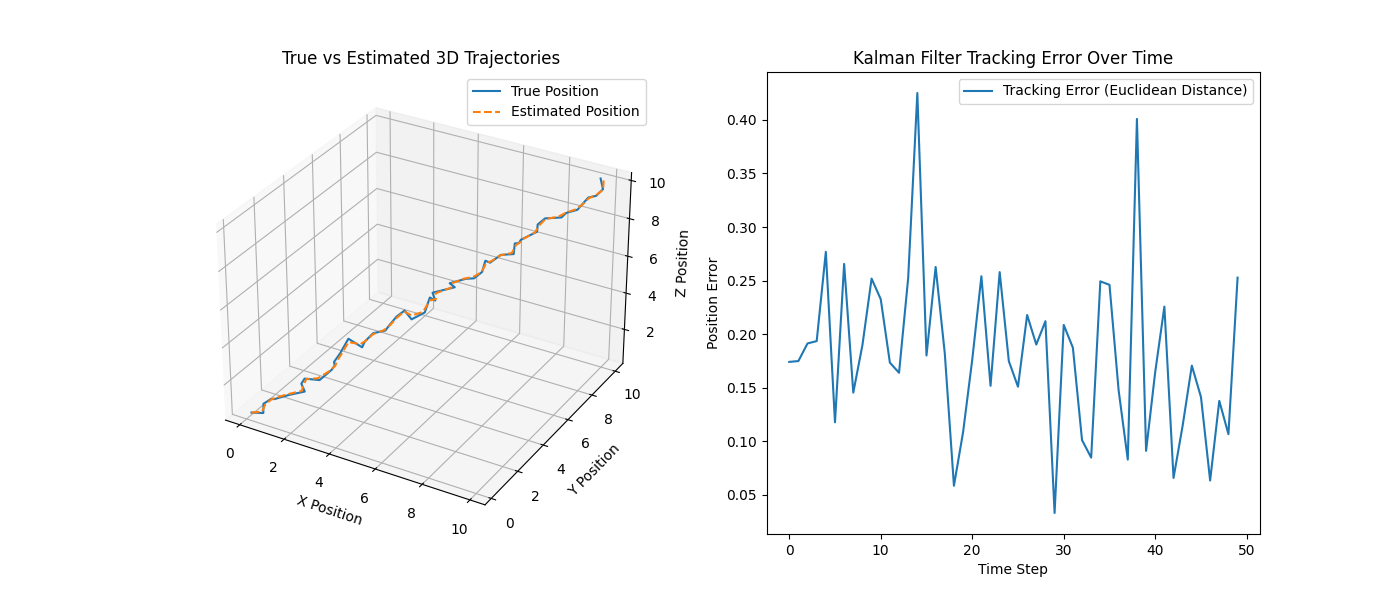
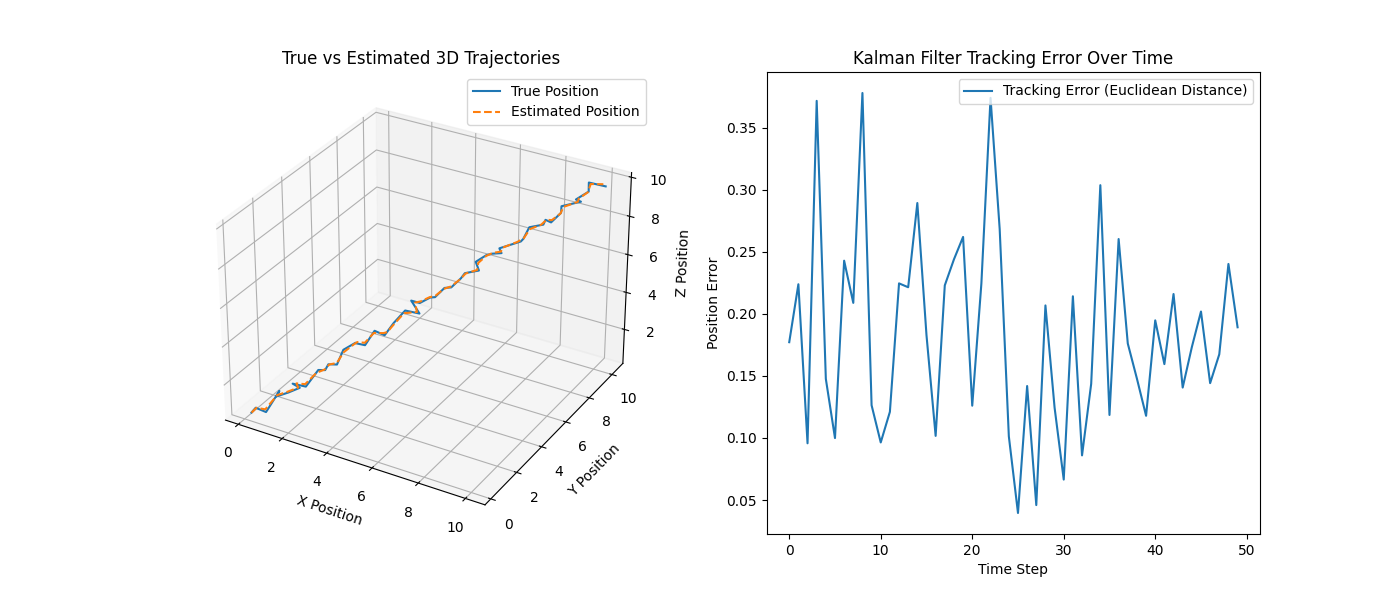
complete

diff --git a/main.py b/main.py
@@ -67,7 +67,7 @@ def experiment2(delta_t, time_steps, initial_position, initial_velocity, H, init
     """
     measurement_noise_cov = np.diag([0.1, 0.1, 0.1, 0.05, 0.05, 0.05]) * measurement_noise_multiplier
     process_noise_cov = np.diag([0.05, 0.05, 0.05, 0.02, 0.02, 0.02]) * process_noise_multiplier
-    variable_acceleration = lambda t: np.array([0.1 * np.sin(t), 0.1 * np.cos(t), -0.02 * t] * acceleration_multiplier)
+    variable_acceleration = lambda t: np.array([0.1 * np.sin(t), 0.1 * np.cos(t), -0.02 * t]) * acceleration_multiplier
     T = 0.02
 
     kalman_filter = MissileTrackerKalmanFilter(delta_t, H, process_noise_cov, measurement_noise_cov, initial_state, initial_covariance)
@@ -140,43 +140,136 @@ def normal_run():
 
     # Experiment configurations
     delta_t_values = [0.001, 0.005, 0.01]  # Different time intervals
-    noise_multipliers = [(1, 1), (0.5, 0.5), (2, 2)]  # Different levels of process and measurement noise
+    noise_multipliers = [(0.5, 0.5),(1, 1), (2, 2)]  # Different levels of process and measurement noise
     acceleration_types = [
         ("Constant", np.array([0.1, 0.1, -0.01])),
-        ("Time-dependent", lambda t: np.array([0.1 * np.sin(t), 0.1 * np.cos(t), -0.02 * t]))
+        ("Time-dependent", lambda t: np.array([0.1 * np.sin(t), 0.1 * np.cos(t), -0.01 * t]))
     ]
+    # for delta_t in delta_t_values:
+    #     for (proc_noise_mult, meas_noise_mult) in noise_multipliers:
+    #         for acc_type, acceleration in acceleration_types:
+    #             # Create Kalman filter with adjusted noise
+    #             process_noise_cov = np.diag([0.02, 0.02, 0.02, 0.01, 0.01, 0.01]) * proc_noise_mult
+    #             measurement_noise_cov = np.diag([0.05, 0.05, 0.05, 0.02, 0.02, 0.02]) * meas_noise_mult
 
+    #             # Instantiate Kalman filter
+    #             kalman_filter = MissileTrackerKalmanFilter(
+    #                 delta_t, H, process_noise_cov, measurement_noise_cov, initial_state, initial_covariance
+    #             )
+
+    #             # Run simulation based on acceleration type
+    #             if acc_type == "Constant":
+    #                 true_positions, estimated_positions, errors = Util.simulate_trajectory(
+    #                     time_steps, delta_t, int(0.01 / delta_t), initial_position, initial_velocity, acceleration, kalman_filter
+    #                 )
+    #             elif acc_type == "Time-dependent":
+    #                 true_positions, estimated_positions, errors = Util.simulate_trajectory(
+    #                     time_steps, delta_t, int(0.02 / delta_t), initial_position, initial_velocity, acceleration, kalman_filter
+    #                 )
+
+    #             # Plot and display results
+    #             title = f"Experiment: Δt={delta_t}, Proc Noise Mult={proc_noise_mult}, Meas Noise Mult={meas_noise_mult}, Accel={acc_type}"
+    #             print(title)
+    #             fig = Util.plot_trajectory(true_positions, estimated_positions, errors, normal_run=False)
+    #             # save fig
+    #             save_name = re.sub(r'[<>:"/\\|?*]', "", title)
+    #             save_name = save_name.replace(" ", "_").replace("Δ", "delta").replace("=", "_").replace(",", "_").replace(".", "_") + ".png"
+    #             os.makedirs("results", exist_ok=True)
+    #             fig.savefig(os.path.join("results", save_name))
+
+    # create plots when only delta_t is varied
+    errors=[]
+    delta_t_values = [0.001, 0.005, 0.01, 0.05, 0.1]
     for delta_t in delta_t_values:
-        for (proc_noise_mult, meas_noise_mult) in noise_multipliers:
-            for acc_type, acceleration in acceleration_types:
-                # Create Kalman filter with adjusted noise
-                process_noise_cov = np.diag([0.02, 0.02, 0.02, 0.01, 0.01, 0.01]) * proc_noise_mult
-                measurement_noise_cov = np.diag([0.05, 0.05, 0.05, 0.02, 0.02, 0.02]) * meas_noise_mult
+        kalman_filter = MissileTrackerKalmanFilter(
+            delta_t, H, np.diag([0.02, 0.02, 0.02, 0.01, 0.01, 0.01]), np.diag([0.05, 0.05, 0.05, 0.02, 0.02, 0.02]),
+            initial_state, initial_covariance
+        )
+        true_positions, estimated_positions, error = Util.simulate_trajectory(
+            time_steps, delta_t, int(0.2 / delta_t), initial_position, initial_velocity, np.array([0.1, 0.1, -0.01]), kalman_filter
+        )
+        rmse_error = np.sqrt(np.mean(np.square(error)))
+        # scale by total true position cnt
+        rmse_error_scaled = rmse_error/len(true_positions)
+        errors.append(rmse_error_scaled)
 
-                # Instantiate Kalman filter
-                kalman_filter = MissileTrackerKalmanFilter(
-                    delta_t, H, process_noise_cov, measurement_noise_cov, initial_state, initial_covariance
-                )
+    fig, ax = plt.subplots(2, 2, figsize=(10, 12))
 
-                # Run simulation based on acceleration type
-                if acc_type == "Constant":
-                    true_positions, estimated_positions, errors = Util.simulate_trajectory(
-                        time_steps, delta_t, int(0.01 / delta_t), initial_position, initial_velocity, acceleration, kalman_filter
-                    )
-                elif acc_type == "Time-dependent":
-                    true_positions, estimated_positions, errors = Util.simulate_trajectory(
-                        time_steps, delta_t, int(0.02 / delta_t), initial_position, initial_velocity, acceleration, kalman_filter
-                    )
+    # Create line plot of errors and delta_t
+    ax[0][0].plot(delta_t_values, errors)
+    ax[0][0].set_title("Errors vs Delta_t")
+    ax[0][0].set_xlabel("Delta_t")
+    ax[0][0].set_ylabel("RMSE Error")
+    ax[0][0].legend(["RMSE Error"])
 
-                # Plot and display results
-                title = f"Experiment: Δt={delta_t}, Proc Noise Mult={proc_noise_mult}, Meas Noise Mult={meas_noise_mult}, Accel={acc_type}"
-                print(title)
-                fig = Util.plot_trajectory(true_positions, estimated_positions, errors, normal_run=False)
-                # save fig
-                save_name = re.sub(r'[<>:"/\\|?*]', "", title)
-                save_name = save_name.replace(" ", "_").replace("Δ", "delta").replace("=", "_").replace(",", "_").replace(".", "_") + ".png"
-                os.makedirs("results", exist_ok=True)
-                fig.savefig(os.path.join("results", save_name))
+    noise_multipliers = [0.5, 1, 2, 5, 10]
+    errors = []
+    for noise_mult in noise_multipliers:
+        kalman_filter = MissileTrackerKalmanFilter(
+            0.001, H, np.diag([0.02, 0.02, 0.02, 0.01, 0.01, 0.01]) * noise_mult,
+            np.diag([0.05, 0.05, 0.05, 0.02, 0.02, 0.02]) * noise_mult,
+            initial_state, initial_covariance
+        )
+        true_positions, estimated_positions, error = Util.simulate_trajectory(
+            time_steps, 0.001, int(0.2 / 0.001), initial_position, initial_velocity, np.array([0.1, 0.1, -0.01]), kalman_filter
+        )
+        rmse_error = np.sqrt(np.mean(np.square(error)))
+        errors.append(rmse_error)
+
+    # Create line plot of errors and noise multiplier
+    ax[0][1].plot(noise_multipliers, errors)
+    ax[0][1].set_title("Errors vs Noise Multiplier")
+    ax[0][1].set_xlabel("Noise Multiplier")
+    ax[0][1].set_ylabel("RMSE Error")
+    ax[0][1].legend(["RMSE Error"])
+
+    acceleration_multipliers_constant = [0.5, 1, 2, 5, 10]
+    errors = []
+    for acc_mult in acceleration_multipliers_constant:
+        kalman_filter = MissileTrackerKalmanFilter(
+            0.001, H, np.diag([0.02, 0.02, 0.02, 0.01, 0.01, 0.01]),
+            np.diag([0.05, 0.05, 0.05, 0.02, 0.02, 0.02]),
+            initial_state, initial_covariance
+        )
+        true_positions, estimated_positions, error = Util.simulate_trajectory(
+            time_steps, 0.001, int(0.2 / 0.001), initial_position, initial_velocity, np.array([0.1, 0.1, -0.01]) * acc_mult, kalman_filter
+        )
+        rmse_error = np.sqrt(np.mean(np.square(error)))
+        errors.append(rmse_error)
+
+    # Create line plot of errors and acceleration multiplier (constant)
+    ax[1][0].plot(acceleration_multipliers_constant, errors)
+    ax[1][0].set_title("Errors vs Constant Acceleration")
+    ax[1][0].set_xlabel("Acceleration Multiplier")
+    ax[1][0].set_ylabel("RMSE Error")
+    ax[1][0].legend(["RMSE Error"])
+
+    acceleration_multipliers_time_dependent = [0.5, 1, 2, 5, 10]
+    errors = []
+    for acc_mult in acceleration_multipliers_time_dependent:
+        kalman_filter = MissileTrackerKalmanFilter(
+            0.001, H, np.diag([0.02, 0.02, 0.02, 0.01, 0.01, 0.01]),
+            np.diag([0.05, 0.05, 0.05, 0.02, 0.02, 0.02]),
+            initial_state, initial_covariance
+        )
+        true_positions, estimated_positions, error = Util.simulate_trajectory(
+            time_steps, 0.001, int(0.2 / 0.001), initial_position, initial_velocity,
+            lambda t: np.array([0.1 * np.sin(t), 0.1 * np.cos(t), -0.01 * t]) * acc_mult, kalman_filter
+        )
+        rmse_error = np.sqrt(np.mean(np.square(error)))
+        errors.append(rmse_error)
+
+    # Create line plot of errors and acceleration multiplier (time-dependent)
+    ax[1][1].plot(acceleration_multipliers_time_dependent, errors)
+    ax[1][1].set_title("Errors vs Time-dependent Acceleration")
+    ax[1][1].set_xlabel("Acceleration Multiplier")
+    ax[1][1].set_ylabel("RMSE Error")
+    ax[1][1].legend(["RMSE Error"])
+
+    plt.tight_layout()
+    plt.show()
+    
+
 
 if __name__ == '__main__':
     # streamlit()

diff --git a/utilsKalman/util.py b/utilsKalman/util.py
@@ -100,6 +100,7 @@ class Util:
         # Error plot
         ax1 = fig.add_subplot(1, 2, 2)
         ax1.plot(errors, label="Tracking Error (Euclidean Distance)")
+        ax1.legend(loc='upper left')
         ax1.set_xlabel("Time Step")
         ax1.set_ylabel("Position Error")
         ax1.set_title("Kalman Filter Tracking Error Over Time")

diff --git a/README.md b/README.md
@@ -1,0 +1,76 @@
+---
+title: Kalman Filter
+subtitle: Autonomous Systems
+author: Prakhar Gupta(B21AI027), Adarsh Raj Shrivastava(B21AI003)
+mainfont: DejaVuSerif
+sansfont: DejaVuSans
+monofont: DejaVuSansMono
+mathfont: TeXGyreDejaVuMath-Regular
+---
+
+## Kalman Filter Implementation
+
+The Kalman filter is a recursive algorithm used for estimating the state of a dynamic system from a series of measurements. In the context of missile tracking, the Kalman filter is used to estimate the position and velocity of the target aircraft based on noisy measurements from a radar system.
+
+The state of the target aircraft is represented by a 6-dimensional vector `x = [x, y, z, vx, vy, vz]`, where `(x, y, z)` is the position and `(vx, vy, vz)` is the velocity. The system dynamics are modeled by the following linear state-space equations:
+
+$$v_{t+1} - v_t = a_t * Δt$$
+$$x_{t+1} - x_t = v_t * Δt$$
+
+where `a_t` is the acceleration of the target aircraft, which is assumed to be known and provided as a control input.
+
+The Kalman filter consists of two main steps: the prediction step and the update step.
+
+### Prediction Step
+
+In the prediction step, the Kalman filter uses the known system dynamics and the previous state estimate to predict the current state of the system. The state transition matrix `A` and the control input matrix `B` are used to compute the predicted state:
+
+$$x_predicted = A * x_estimated + B * control_input$$
+$$P_predicted = A * P * A.T + Q$$
+
+where `x_estimated` is the previous state estimate, `P` is the previous state covariance matrix, and `Q` is the process noise covariance matrix.
+
+### Update Step
+
+In the update step, the Kalman filter incorporates the new measurement from the radar system to update the state estimate. The measurement model is represented by the measurement matrix `H`, which maps the state vector to the measurement vector. The Kalman gain `K` is computed based on the measurement covariance `R` and the predicted state covariance `P_predicted`:
+
+```txt
+y = measurement - H * x_predicted  # Measurement residual
+S = H * P_predicted * H.T + R      # Residual covariance
+K = P_predicted * H.T * np.linalg.inv(S)  # Kalman gain
+x_estimated = x_predicted + K * y  # Updated state estimate
+P = (np.eye(P.shape[0]) - K * H) * P_predicted  # Updated covariance
+```
+
+The updated state estimate `x_estimated` and covariance `P` are then used in the next prediction step.
+
+## Simulate Function
+
+The `simulate_trajectory` function is used to simulate the trajectory of the target aircraft and evaluate the performance of the Kalman filter.
+
+The function takes the following inputs:
+
+- `time_steps`: The number of time steps to simulate.
+- `delta_t`: The time interval between each step.
+- `eta`: The number of prediction steps per measurement.
+- `initial_position`: The initial position of the target aircraft.
+- `initial_velocity`: The initial velocity of the target aircraft.
+- `acceleration`: The acceleration of the target aircraft, which can be a constant value or a time-dependent function.
+- `kalman_filter`: An instance of the `MissileTrackerKalmanFilter` class.
+
+The function simulates the true trajectory of the target aircraft based on the given initial conditions and acceleration. At each step, the Kalman filter performs `eta` prediction steps and then updates the state estimate using the simulated measurement. The true positions, estimated positions, and Euclidean errors between them are recorded and returned.
+
+The simulated trajectory can be used to evaluate the performance of the Kalman filter under different conditions, such as varying levels of measurement noise or different acceleration profiles.
+
+## Observations
+
+![result](result.png)
+
+- We can see that Scaled RMSE decrease with increase in $delta_t$ which is expected as the parameters are changing very frequently and the filter is not able to matchup the speed of the changes
+- The Scaled RMSE increases with increase in measurement noise which is expected as the noise created uncertainty in the measurements
+- The results in both constant acceleration and variable acceleration doesn't seems to tell us much about the performance of the filter as the RMSE is unpredictable and doesn't follow any pattern
+
+## Authors
+
+- Prakhar Gupta(B21AI027)
+- Adarsh Raj Shrivastava(B21AI003)
